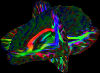
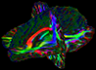
tex button

diff --git a/brainnetworks/indexmain.html b/brainnetworks/indexmain.html
@@ -116,6 +116,8 @@
      	    </section>
     	
     	    <section id="viewButtons">
+    	    	<a href="" id="texMyelo"><img src="images/texMyelo.png" title="myelin map"></a>
+    	    	<br>
     	        <a href="" id="tex1"><img src="images/gray.png" title="anatomy"></a>
     	        <a href="" id="tex2"><img src="images/fa_rgb.png" title="direction FA"></a>
     	        <a href="" id="surf"><img src="images/surface.png" title="surface"></a>
@@ -123,9 +125,9 @@
     	
             <section id="textures">
                 <div id="controls-slices">
-                    <div><label for="sliceX">X</label><input type="range" min="0" max="160" id="sliceX" value="80" step="1" /> <span class="value"></span></div>
-                    <div><label for="sliceY">Y</label><input type="range" min="0" max="200" id="sliceY" value="100" step="1" /> <span class="value"></span></div>
-                    <div><label for="sliceZ">Z</label><input type="range" min="0" max="160" id="sliceZ" value="80" step="1" /> <span class="value"></span></div>
+                    <div><label for="sliceX">X </label><input type="range" min="0" max="160" id="sliceX" value="80" step="1" /> <span class="value"></span></div>
+                    <div><label for="sliceY">Y </label><input type="range" min="0" max="200" id="sliceY" value="100" step="1" /> <span class="value"></span></div>
+                    <div><label for="sliceZ">Z </label><input type="range" min="0" max="160" id="sliceZ" value="80" step="1" /> <span class="value"></span></div>
                 </div>
             </section>
             Copyright &copy 2014 <a style="color:#a0a0a0" href="http://www.cbs.mpg.de/~heuer">K. Heuer</a>, <a style="color:#a0a0a0" href="http://www.cbs.mpg.de/~schurade">R. Schurade</a>, <a style="color:#a0a0a0" href="http://www.cbs.mpg.de/~anwander">A. Anwander</a>

diff --git a/brainnetworks/stylesheets/screen.css b/brainnetworks/stylesheets/screen.css
@@ -159,13 +159,6 @@ a {
 	margin: 4px 0
 }
 
-.texSliders input[type="range"] {
-	-webkit-appearance: none;
-	background: #aeaead;
-	width: 100%;
-	margin: 4px 0
-}
-
 .motorHomunculus {
 	float: left;
 	padding-right: 5px
@@ -178,6 +171,13 @@ a {
 .rainbowButtons2 {
 	float: left;
 	padding-left: 21px
+}
+
+.texSliders input[type="range"] {
+	-webkit-appearance: none;
+	background: #aeaead;
+	width: 100%;
+	margin: 4px 0
 }
 
 ::-webkit-slider-thumb {
